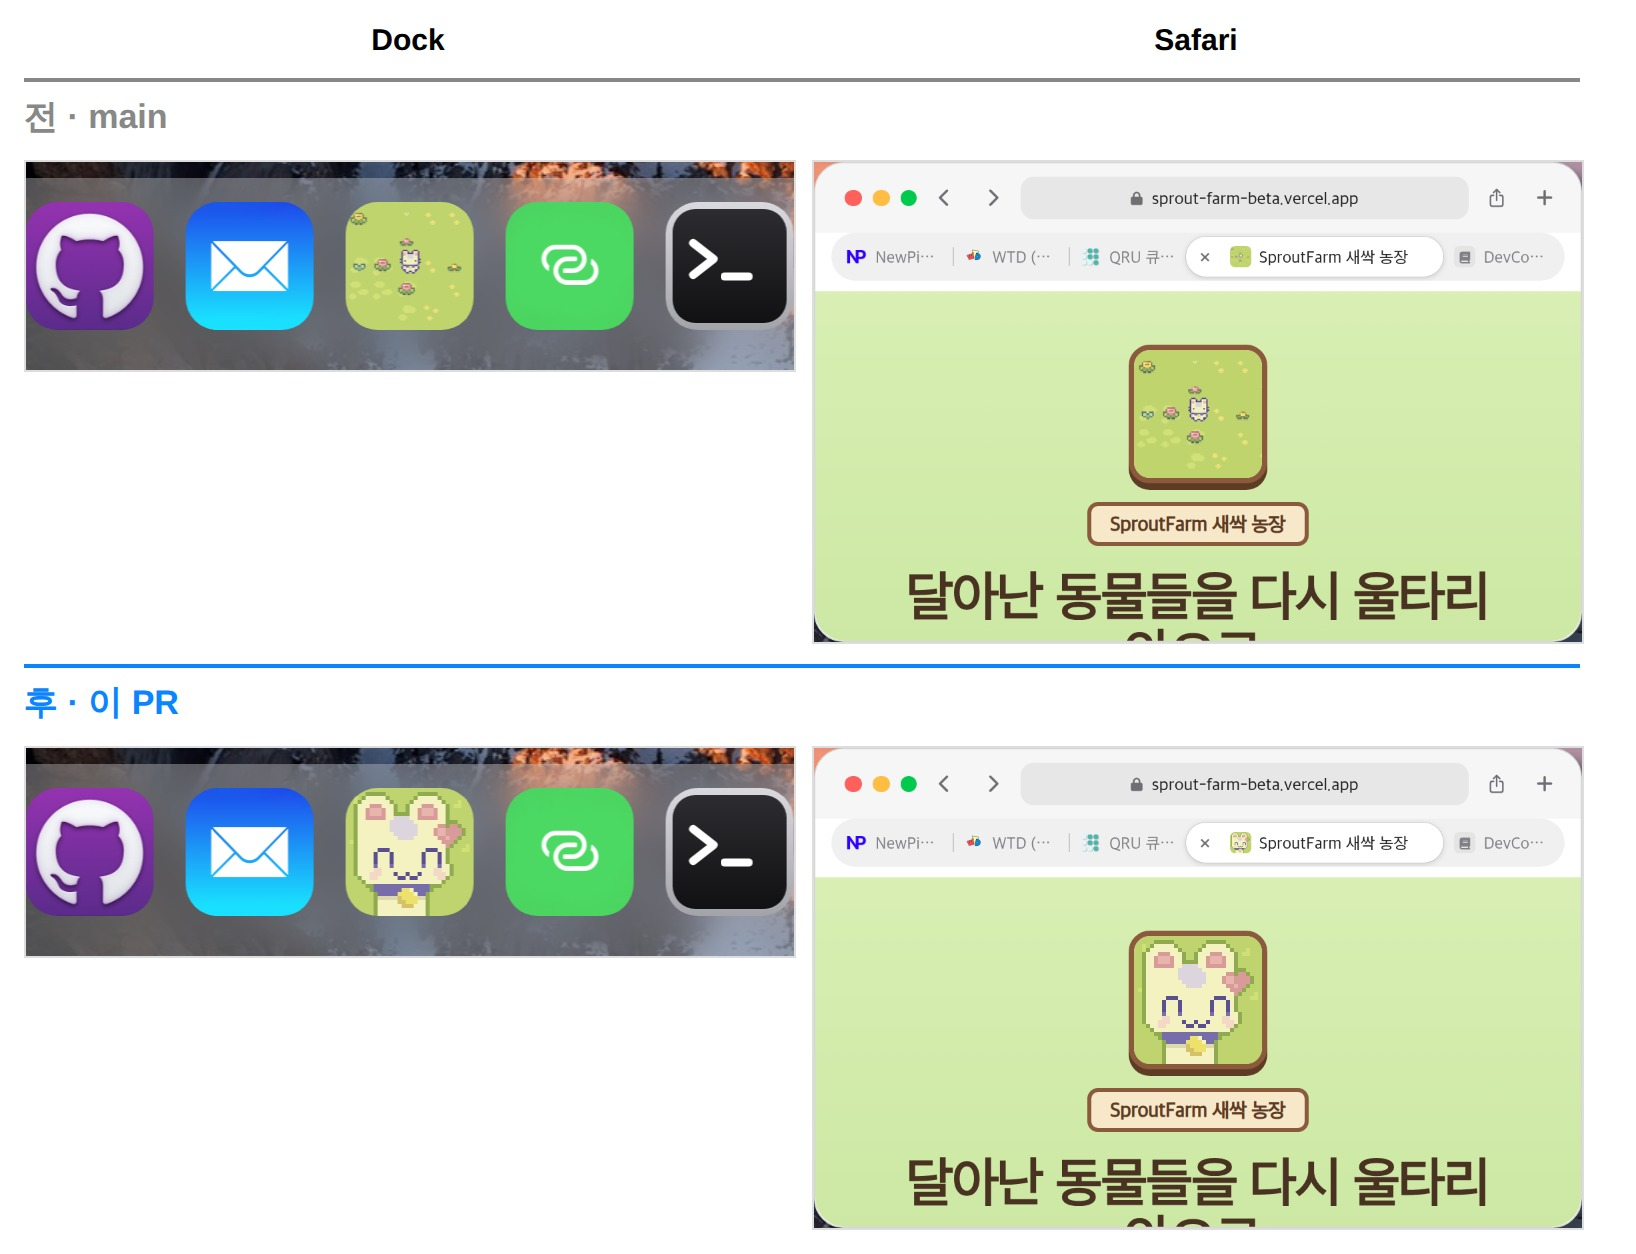
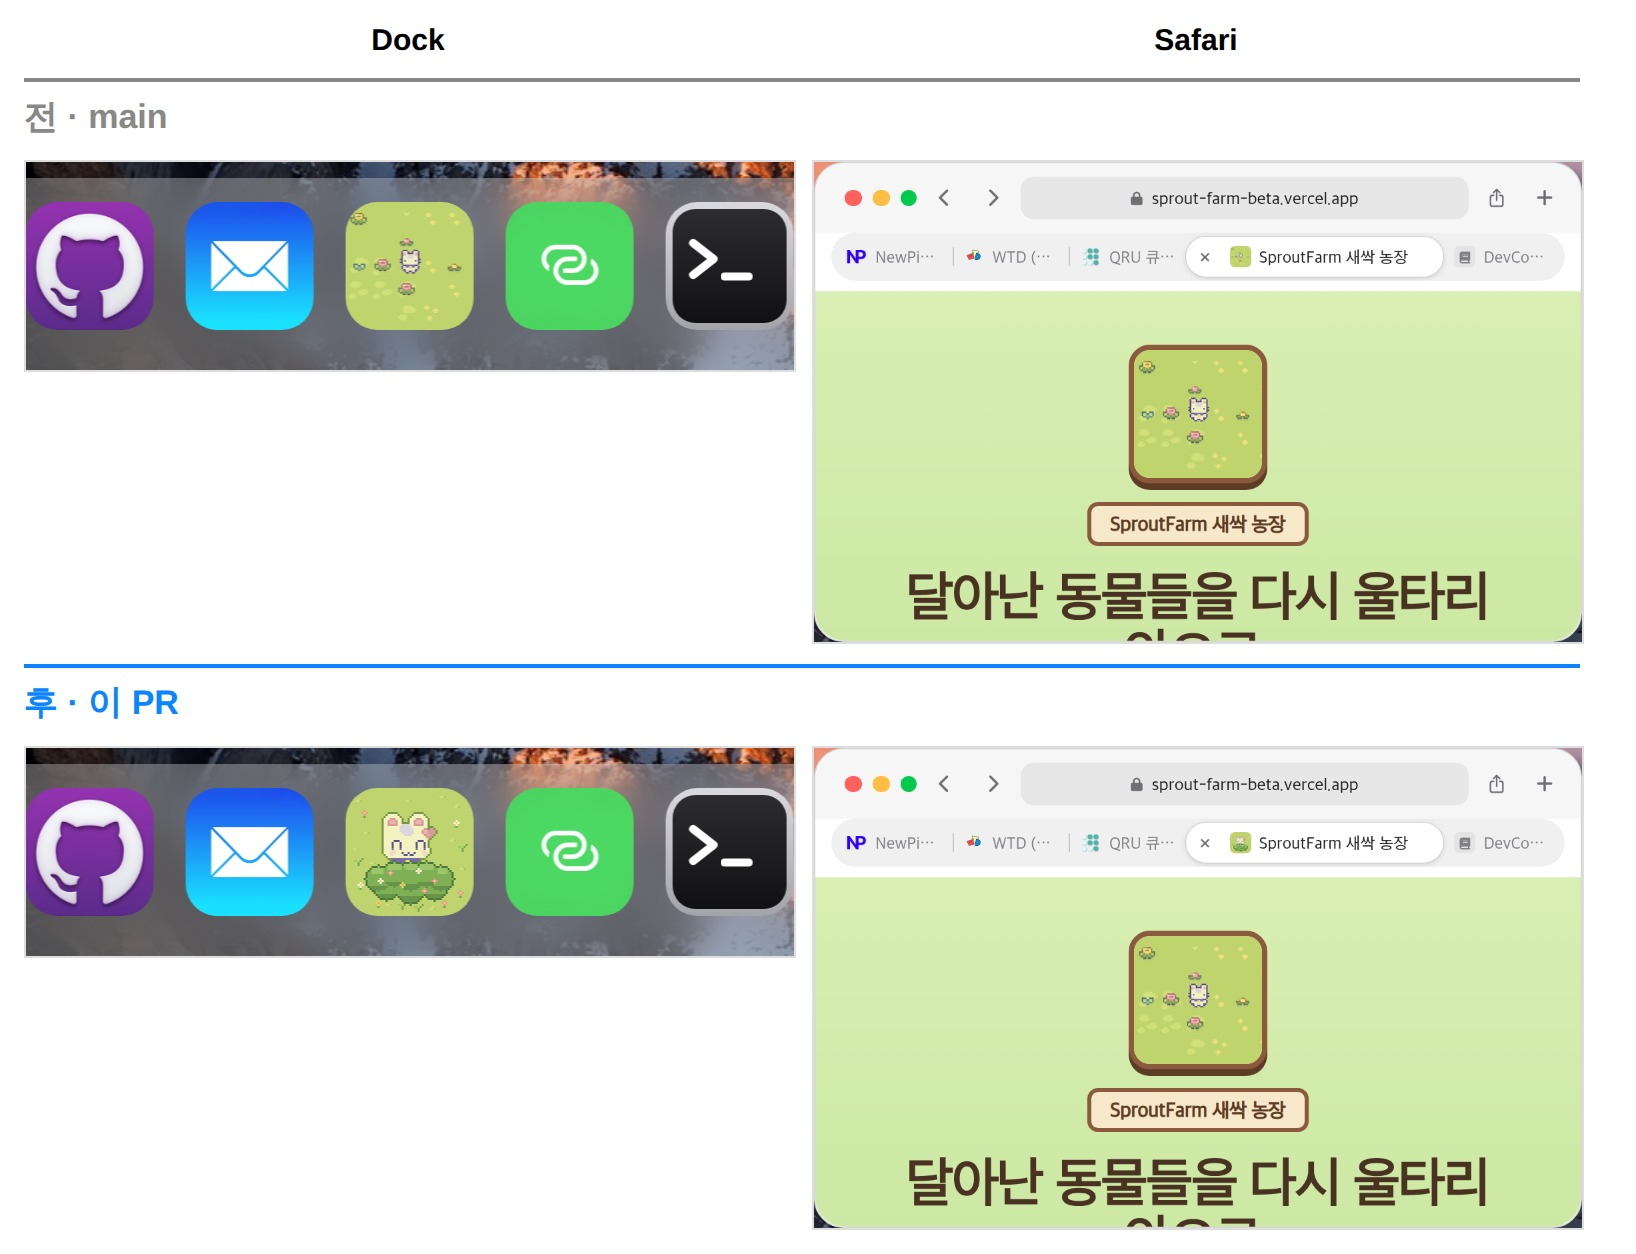
feat(sproutfarm): 아이콘에 풀밭을 그리고 예전 아이콘은 첫 화면 그림으로

Changed region(s): [[0.6858, 0.7464, 0.7793, 0.8708], [0.2182, 0.622, 0.2806, 0.7464], [0.7482, 0.6531, 0.7793, 0.6842]]

diff --git a/apps/react/src/shared/profile.ts b/apps/react/src/shared/profile.ts
@@ -83,6 +83,8 @@ export interface Project {
 	demo?: string;
 	/** 앱 아이콘 (public/imgs/projects/{id}/icon.png). 없으면 기본 모양을 쓴다 */
 	icon?: string;
+	/** 첫 화면에 크게 둘 그림 (public/imgs/projects/{id}/scene.png). 없으면 앱 아이콘 */
+	art?: string;
 	/** 글자 로고 (public/imgs/projects/{id}/logo.png) */
 	logo?: string;
 	/** 화면 캡처 (public/imgs/projects/{id}/screenshot.jpg) */
@@ -383,6 +385,7 @@ export const PROJECTS: Project[] = [
 		url: 'https://github.com/hyeoniverse/SproutFarm',
 		demo: 'https://sprout-farm-beta.vercel.app',
 		icon: projectImage('sproutfarm', 'icon.png'),
+		art: projectImage('sproutfarm', 'scene.png'),
 		image: projectImage('sproutfarm', 'screenshot.jpg'),
 	},
 	{

diff --git a/apps/react/e2e/sproutfarm.spec.ts b/apps/react/e2e/sproutfarm.spec.ts
@@ -25,6 +25,8 @@ test.describe('새싹 농장', () => {
 		await enterDesktop(page);
 		const safari = appWindow(page, 'safari');
 		await safari.getByRole('tab', { name: /SproutFarm/ }).click();
+		// 첫 화면에는 앱 아이콘 대신 게임 장면 그림, 탭에는 앱 아이콘
+		await expect(safari.getByRole('img', { name: 'SproutFarm 새싹 농장 그림' })).toHaveAttribute('src', /scene\.png$/);
 		await safari.getByRole('button', { name: '여기서 플레이' }).first().click();
 		await expect(appWindow(page, 'sproutfarm')).toBeVisible();
 	});

diff --git a/apps/react/src/apps/safari/ProjectPage.tsx b/apps/react/src/apps/safari/ProjectPage.tsx
@@ -123,7 +123,11 @@ const Hero: React.FC<{ project: Project }> = ({ project }) => {
 			<div className="sp-hero-main">
 				{look !== 'editorial' && (
 					<div className="sp-hero-art">
-						<Favicon project={project} className="sp-app-icon" />
+						{project.art ? (
+							<img src={project.art} alt={`${project.name} 그림`} className="sp-app-icon" />
+						) : (
+							<Favicon project={project} className="sp-app-icon" />
+						)}
 					</div>
 				)}
 				<div className="sp-hero-copy">

diff --git a/apps/react/src/apps/memo/content/sproutfarm-icon.md b/apps/react/src/apps/memo/content/sproutfarm-icon.md
@@ -1,31 +1,36 @@
 ---
-title: 새싹 농장 아이콘 - 32픽셀 캐릭터를 흐리지 않고 키우기
+title: 새싹 농장 아이콘 - 32픽셀 캐릭터로 다시 그린 풀밭
 date: 2026-10-03
 category: 개발기/MacFolio
-summary: 새싹 농장 앱 아이콘은 게임 화면을 줄인 그림이라, Dock 크기에서는 캐릭터가 점처럼 보였다. 게임 캐릭터 그림(32×32)을 가장 가까운 픽셀 방식으로 16배 키워 512px 아이콘을 만들고, 풀밭 색과 겹치지 않게 테두리를 한 칸 둘렀다.
+summary: 새싹 농장 앱 아이콘은 게임 화면을 줄인 그림이라, Dock 크기에서는 캐릭터가 점처럼 보였다. 게임 캐릭터(32×32)를 64칸 판에 올리고 덤불·꽃·새싹을 픽셀로 그려 아이콘을 새로 만들었다. 예전 아이콘은 Safari 프로젝트 페이지의 첫 화면 그림으로 옮겼다.
 ---
 
 새싹 농장(SproutFarm)의 앱 아이콘은 게임 화면 한 장을 줄인 그림이었다. 풀밭 가운데 캐릭터가 서 있는 장면인데, Dock 크기로 줄이면 캐릭터는 몇 픽셀짜리 점이 되고 연두색 사각형만 남았다. 무슨 앱인지 아이콘만 보고는 알 수 없었다.
 
-![아이콘 전후](./images/sproutfarm-icon.jpg '위: 게임 화면을 줄인 아이콘 / 아래: 캐릭터를 키운 아이콘')
+![아이콘 전후](./images/sproutfarm-icon.jpg '위: 예전 아이콘 / 아래: 새 아이콘과, 첫 화면으로 옮긴 예전 그림')
 
-## 32픽셀 그림을 키우는 법
+## 캐릭터만 키우면 너무 크다
 
-새로 쓴 그림은 게임에 나오는 32×32 캐릭터다. 이걸 아이콘 크기로 키우는 방법은 두 가지가 있다.
+처음에는 게임 캐릭터 그림(32×32)을 아이콘 크기까지 그대로 키웠다. 캐릭터는 잘 보였지만 아이콘 전체가 얼굴 하나로 꽉 차서, 농장 게임이라기보다 캐릭터 스티커처럼 보였다.
 
-- **부드럽게 키우기(쌍선형, 쌍삼차)**: 사진에 맞는 방식이다. 픽셀 사이를 섞은 색으로 채우기 때문에, 픽셀 그림에 쓰면 경계가 번지고 뿌옇게 된다.
-- **가장 가까운 픽셀(nearest neighbor)**: 새 픽셀마다 원래 그림에서 가장 가까운 픽셀 색을 그대로 가져온다. 색을 섞지 않아서 픽셀 그림의 각진 모양이 그대로 남는다.
+그래서 판을 두 배로 넓혔다. 64×64칸 판에 캐릭터를 원래 크기(32칸)로 올리면 아이콘의 절반쯤을 차지하고, 나머지 자리에 풀밭을 그릴 수 있다. 판 한 칸은 8×8 픽셀로 키워 512px 아이콘이 된다.
 
-두 번째로 하되 배율은 정수로 맞췄다. 32를 16배 하면 512로, 원래 픽셀 하나가 정확히 16×16 칸이 된다. 배율이 정수가 아니면 어떤 픽셀은 16칸, 어떤 픽셀은 17칸이 되어 선 굵기가 들쭉날쭉해진다.
+## 픽셀 그림을 흐리지 않고 키우기
 
-## 풀밭 위에 올리기
+픽셀 그림을 키울 때는 색을 섞지 않는 방식(nearest neighbor)을 쓴다. 사진을 키울 때 쓰는 부드러운 방식은 픽셀 사이를 섞은 색으로 채워서, 픽셀 그림의 각진 경계가 뿌옇게 번진다.
 
-캐릭터는 크림색인데 배경인 풀밭 연두색과 밝기가 비슷해서, 그대로 올리면 귀와 얼굴 윤곽이 배경에 묻혔다. 그래서 캐릭터 바깥으로 한 칸짜리 테두리를 둘렀다. 테두리 색은 검정이 아니라 풀밭보다 한 단계 어두운 초록으로 골라, 게임 그림체(Sprout Lands)처럼 부드럽게 보이게 했다.
+배율은 정수로 맞췄다. 64칸 × 8배 = 512px라서 판 한 칸이 정확히 8×8 픽셀이 된다. 배율이 정수가 아니면 어떤 칸은 8픽셀, 어떤 칸은 9픽셀이 되어 선 굵기가 들쭉날쭉해진다.
 
-나머지는 작은 손질이다.
+## 잘린 아랫부분은 덤불 뒤로
 
-- 원래 그림은 캐릭터가 오른쪽으로 치우쳐 있어서 두 칸 왼쪽으로 옮겨 가운데에 맞췄다.
-- 캐릭터 아래쪽이 그림 끝에서 잘려 있어서, 아이콘에서도 아래 끝에 붙여 상반신을 보여 주는 구도로 두었다.
-- 배경에 풀 무늬 몇 칸을 넣어, 예전 아이콘의 풀밭 느낌을 이어 갔다.
+받은 캐릭터 그림은 아래쪽이 잘려 있다. 작게 두면 몸이 허공에서 끊긴 것처럼 보인다. 그래서 캐릭터 앞에 덤불을 그려 잘린 부분을 가렸다. 캐릭터가 덤불 뒤에서 고개를 내민 모양이 된다.
 
-아이콘은 Dock, Launchpad, 휴대폰 홈 화면, Safari 프로젝트 페이지가 같은 파일 하나(`icon.png`)를 쓴다. 파일만 바꾸니 네 곳이 함께 바뀌었다.
+- **덤불**: 원 여러 개를 겹쳐 모양을 잡고, 위쪽은 밝게, 아래쪽은 어둡게 칠한 뒤 한 칸짜리 짙은 초록 테두리를 둘렀다. 위에는 작은 꽃을 몇 송이 얹었다.
+- **캐릭터 테두리**: 크림색 캐릭터가 연두색 풀밭에 묻히지 않게 바깥으로 한 칸 테두리를 둘렀다. 색은 검정이 아니라 풀밭보다 한 단계 어두운 초록으로 골라 게임 그림체(Sprout Lands)에 맞췄다.
+- **풀밭**: 풀 무늬, 꽃잎 네 장짜리 꽃, 이름 그대로 새싹을 흩어 놓았다. 꽃 색은 캐릭터 그림의 분홍·노랑에 흰색만 더해, 색이 따로 놀지 않게 했다.
+
+## 예전 아이콘은 첫 화면으로
+
+예전 아이콘은 작게 보기에는 맞지 않았지만, 게임 장면 그대로라 크게 보면 분위기가 잘 산다. 그래서 버리지 않고 Safari의 새싹 농장 프로젝트 페이지 첫 화면에 옮겼다. 나무 액자 안에 들어가는 큰 그림 자리다.
+
+프로젝트 정보에 `art`(첫 화면 그림) 칸을 하나 더했다. 이 칸이 있으면 첫 화면에 그 그림을 쓰고, 없으면 지금처럼 앱 아이콘을 쓴다. 덕분에 새싹 농장은 작은 곳(Dock, Launchpad, 휴대폰 홈 화면, Safari 탭)에서는 새 아이콘을, 큰 곳에서는 게임 장면을 보여 준다.
